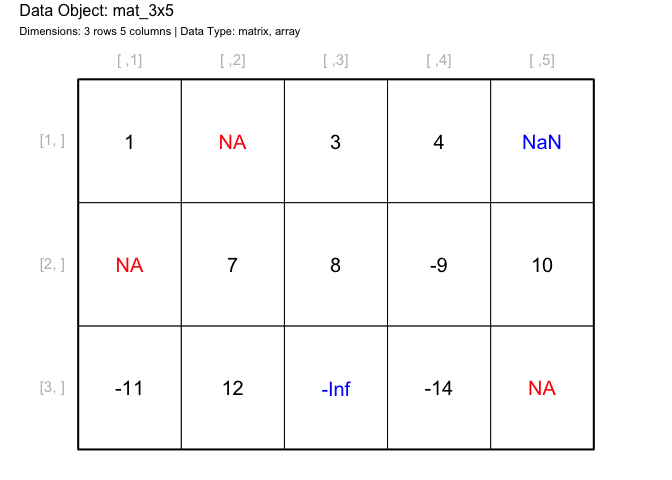
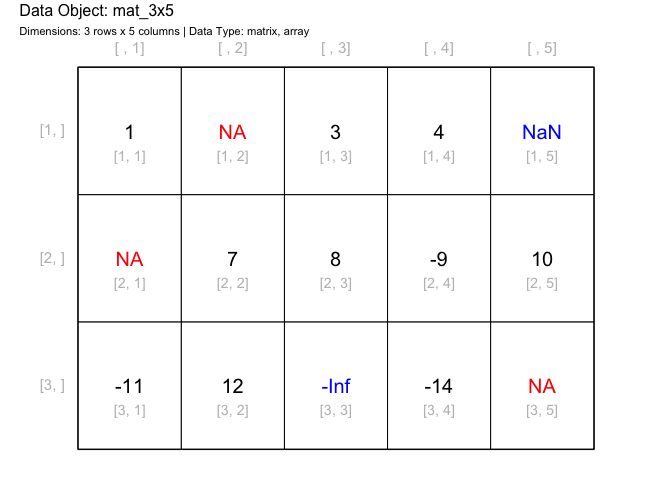
Update the readme and regenerate.

diff --git a/README.md b/README.md
@@ -64,14 +64,14 @@ draw_matrix(mat_3x5)
 
 ``` r
 # Show the cell indices
-draw_matrix(mat_3x5, show_cell_indices = TRUE)
+draw_matrix(mat_3x5, show_indices = "cell")
 ```
 
 <img src="man/figures/README-base-example-2.png" width="100%" />
 
 ``` r
-# Show the row and column indices
-draw_matrix(mat_3x5, show_row_indices = TRUE, show_column_indices = TRUE)
+# Show all indices
+draw_matrix(mat_3x5, show_indices = "all")
 ```
 
 <img src="man/figures/README-base-example-3.png" width="100%" />
@@ -94,7 +94,9 @@ gdraw_matrix(mat_3x5)
 
 ``` r
 # Highlight cells in specific columns
-gdraw_matrix(mat_3x5, highlight_area = highlight_columns(mat_3x5, columns = 2:4))
+gdraw_matrix(mat_3x5, 
+             show_indices = c("row", "column"),
+             highlight_area = highlight_columns(mat_3x5, columns = 2:4))
 ```
 
 <img src="man/figures/README-ggplot2-example-2.png" width="100%" />
